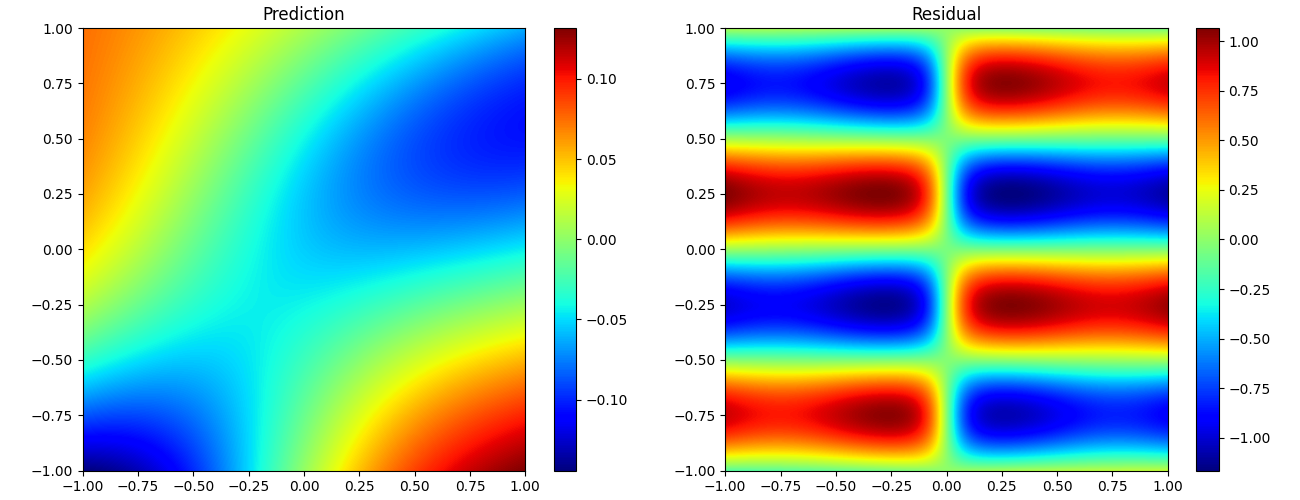
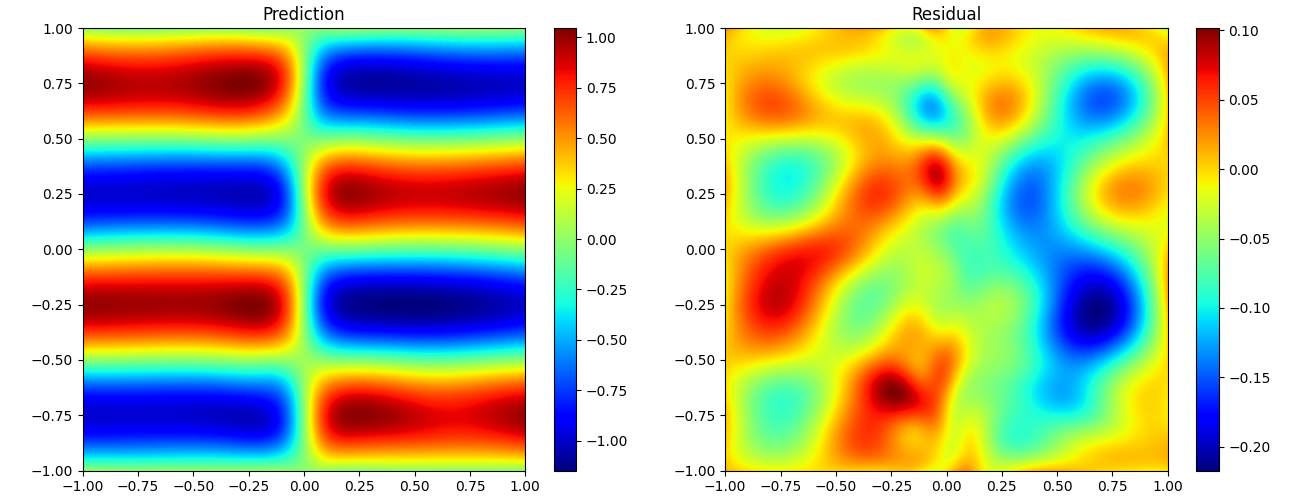
基本都跑了一遍

diff --git a/Benchmark/run.py b/Benchmark/run.py
@@ -19,6 +19,25 @@ def get_latest_file(folder_path):
     # 返回最新文件的地址（如果文件夹非空）
     return files[0] if files else None
 
+def read_single_png_file(folder_path):
+    # 获取文件夹中的第一个以.png结尾的文件
+    png_file = glob.glob(os.path.join(folder_path, "*.png"))[0]
+
+    # 以二进制方式读取文件
+    with open(png_file, "rb") as f:
+        content = f.read()
+
+    return os.path.basename(png_file), content
+
+def save_single_png_file(file, output_folder):
+    file_name, content = file
+    if not os.path.exists(output_folder):
+        os.makedirs(output_folder)
+
+    output_path = os.path.join(output_folder, file_name)
+    with open(output_path, "wb") as f:
+        f.write(content)
+        
 directorys = ['Burgers_1D', 
               'Heat_2d_multi_scale', 
               'Poisson2D', 'Poisson3D', 'Poisson_Boltzmann2D',
@@ -29,9 +48,10 @@ functions = [burgers_1d,
              poisson2d, poisson3d, poisson_boltzmann2d,
              wave]
 # command = 'python3 test.py'
-for i in range(len(directorys)):
+for i in range(2, 2, len(directorys)):
     err = [0, 0, 0]
     models = [None, None, None]
+    figs = [None, None, None]
     os.chdir('./'+directorys[i])
     for j in range(3):
         print(f'{directorys[i]}_{j+1}')
@@ -40,9 +60,11 @@ for i in range(len(directorys)):
         err[j] = ret.item()
         with open(get_latest_file('./model'), "rb") as source_file:
             models[j] = source_file.read()
+    figs[j] = read_single_png_file('.')
     err = np.array(err)
     min_index = np.argmin(err)
     with open(get_latest_file('./model'), "wb") as destination_file:
         destination_file.write(models[min_index])
+    save_single_png_file(figs[min_index], '.')
     os.chdir('./..')
     

diff --git a/Benchmark/Poisson_Boltzmann2D/test.py b/Benchmark/Poisson_Boltzmann2D/test.py
@@ -92,7 +92,7 @@ def poisson_boltzmann2d():
                 device=device, load=None)
 
 
-    net = vpinn.train("Poisson_Boltzmann", epoch_num=100, coef=10 ** (3 - np.log2(vpinn.grid_num)))
+    net = vpinn.train("Poisson_Boltzmann", epoch_num=10000, coef=10 ** (3 - np.log2(vpinn.grid_num)))
     net.cpu()
     # verify
     data = np.loadtxt('poisson_boltzmann2d.dat', skiprows=9)
